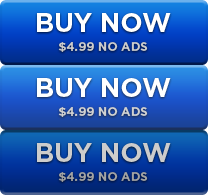
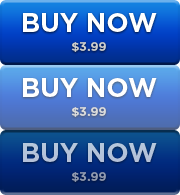
Significant overhaul.
Changed the movie container to simply a movie file. In fact used a placeholder Vimeo embed for ease.

Removed Download Free button since we're paid-only now.

Moved the App Store badge next to the Buy button.

Widened description to width of overall column.

diff --git a/res/main.css b/res/main.css
@@ -49,71 +49,44 @@ div#header h1 a {
 div#header h1 a span {
 	display: none;
 }
-div#header h3 {
-	width: 116px;
-	height: 41px;
-	background: transparent url(app_store_badge.png) no-repeat scroll left top;
-	left: 610px;
-	top: 58px;
-	position: relative;
-	text-indent: -9999px;
-}
-div#header h3 a {
-	display:block;
-	width: 116px;
-	height: 41px;
-	border-style: none;
-}
-div#header h3 a span {
-	display: none;
-}
-div#ipad {
-	width: 544px;
-	height: 426px;
-	margin: 132px 0 40px 273px;
-	background: transparent url(ipad.png) no-repeat scroll left top;
-}
 div#movie {
-	width: 437px;
-	height: 328px;
-	position: relative;
-	top: 48px;
-	left: 54px;
+	margin: 142px 0 40px 271px;
 }
 div#description {
 	color: #fff;
 	font-size: 1.1em;
 	line-height: 1.3em;
-	margin-left: 325px;
-	width: 437px;
+	margin-left: 271px;
+	width: 489px;
 }
-li.btnDownload {
+li.btnAppStore {
 	float: left;
 }
-li.btnDownload a {
-	width: 208px;
+li.btnAppStore a {
+	width: 188px;
 	height: 65px;
 	text-indent: -9999px;
-	background: transparent url(btn_download.png) no-repeat scroll 0 0;
+	background: transparent url(btn_appstore.png) no-repeat scroll 0 0;
 	display: block;
 }
 li.btnBuy {
-	float: right;
+	float: left;
+	margin-right: 40px;
 }
 li.btnBuy a {
-	width: 208px;
+	width: 180px;
 	height: 65px;
 	text-indent: -9999px;
 	background: transparent url(btn_buynow.png) no-repeat scroll 0 0;
 	display: block;
 }
-li.btnDownload a:hover, li.btnBuy a:hover {
+li.btnAppStore a:hover, li.btnBuy a:hover {
 	background-position: 0 -65px;
 }
-li.btnDownload a:active, li.btnBuy a:active {
+li.btnAppStore a:active, li.btnBuy a:active {
 	background-position: 0 -130px;
 }
-li.btnDownload a span, li.btnBuy a span {
+li.btnAppStore a span, li.btnBuy a span {
 	display: none;
 }
 .clear {
@@ -131,13 +104,13 @@ div#description ul.features li {
 	list-style-position: inside;
 }
 div#footer {
-	margin: 60px 0 30px 325px;
+	margin: 60px 0 30px 271px;
 	color: #999;
 	font-size: .8em;
 	line-height: 1.2em;
 	text-decoration: none;
 	font-weight: 500;
-	width: 437px;
+	width: 489px;
 	height: 100px;
 }
 ul.links {

diff --git a/index.html b/index.html
@@ -23,20 +23,15 @@
 	<body>
 		<div id="container">
 			<div id="header">
-				<h3><a href="http://itunes.com/apps/designscene"><span>Available on the App Store</span></a></h3>
 				<h1><a href="http://designsceneapp.com/"><span>DesignScene: An inspiration explorer for iPad&trade;</span></a></h1>
 			</div>
-			<div id="ipad">
-				<div id="movie">
-					<script type="text/javascript">
-					    QT_WriteOBJECT('res/ds_demo_movie.mov', '437', '328', '', 'AUTOPLAY', 'True', 'CONTROLLER', 'False') ;
-					</script>
-				</div>
+			<div id="movie">
+				<iframe src="http://player.vimeo.com/video/8107190?portrait=0" width="489" height="208" frameborder="0"></iframe>
 			</div>
 			<div id="description">
 				<ul>
-					<li class="btnDownload"><a href="http://itunes.com/apps/designscene" title="Download free version"><span>Download now. Free ad-supported</span></a></li>
-					<li class="btnBuy"><a href="http://itunes.com/apps/designscene" title="Buy pro version"><span>Buy now. $4.99 no ads</span></a></li>
+					<li class="btnBuy"><a href="http://itunes.com/apps/designscene" title="Buy Now"><span>Buy Now. $3.99</span></a></li>
+					<li class="btnAppStore"><a href="http://itunes.com/apps/designscene" title="Available on the App Store"><span>Available on the App Store</span></a></li>
 				</ul>
 				<br class="clear">
 				<p>We graphic designers are visual creatures. We get inspired by all sorts of things: the world around us, the media we consume, the objects we desire, and the designs we wish we created. DesignScene is an inspiration app for graphic designers, drawing from myriad relevant sources from art to architecture, from illustration to fashion, from photography to typography.</p>
